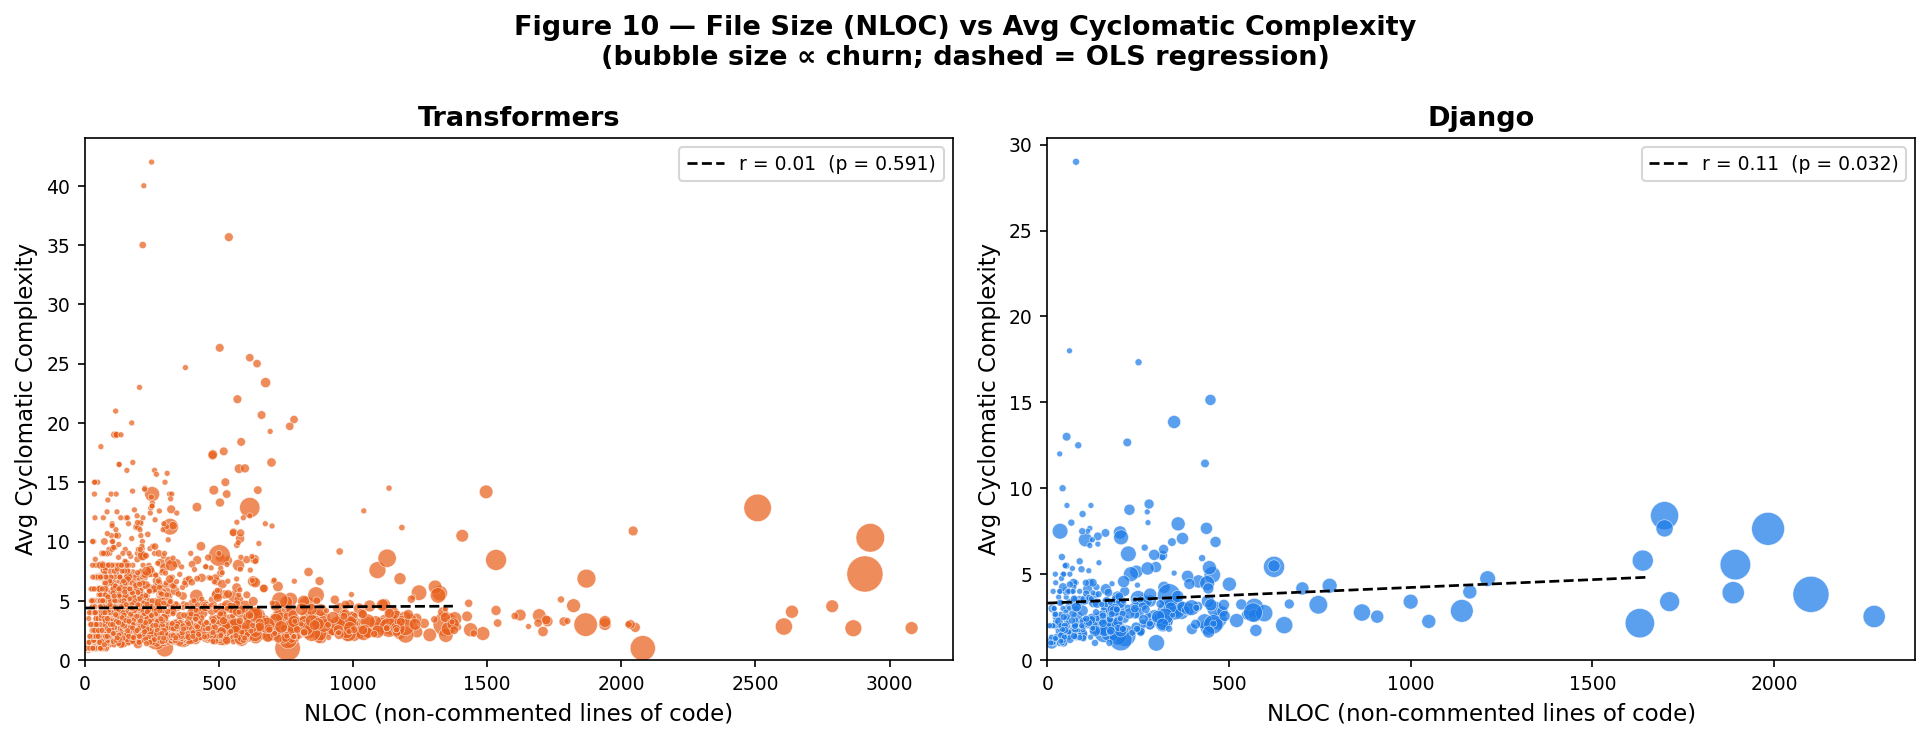
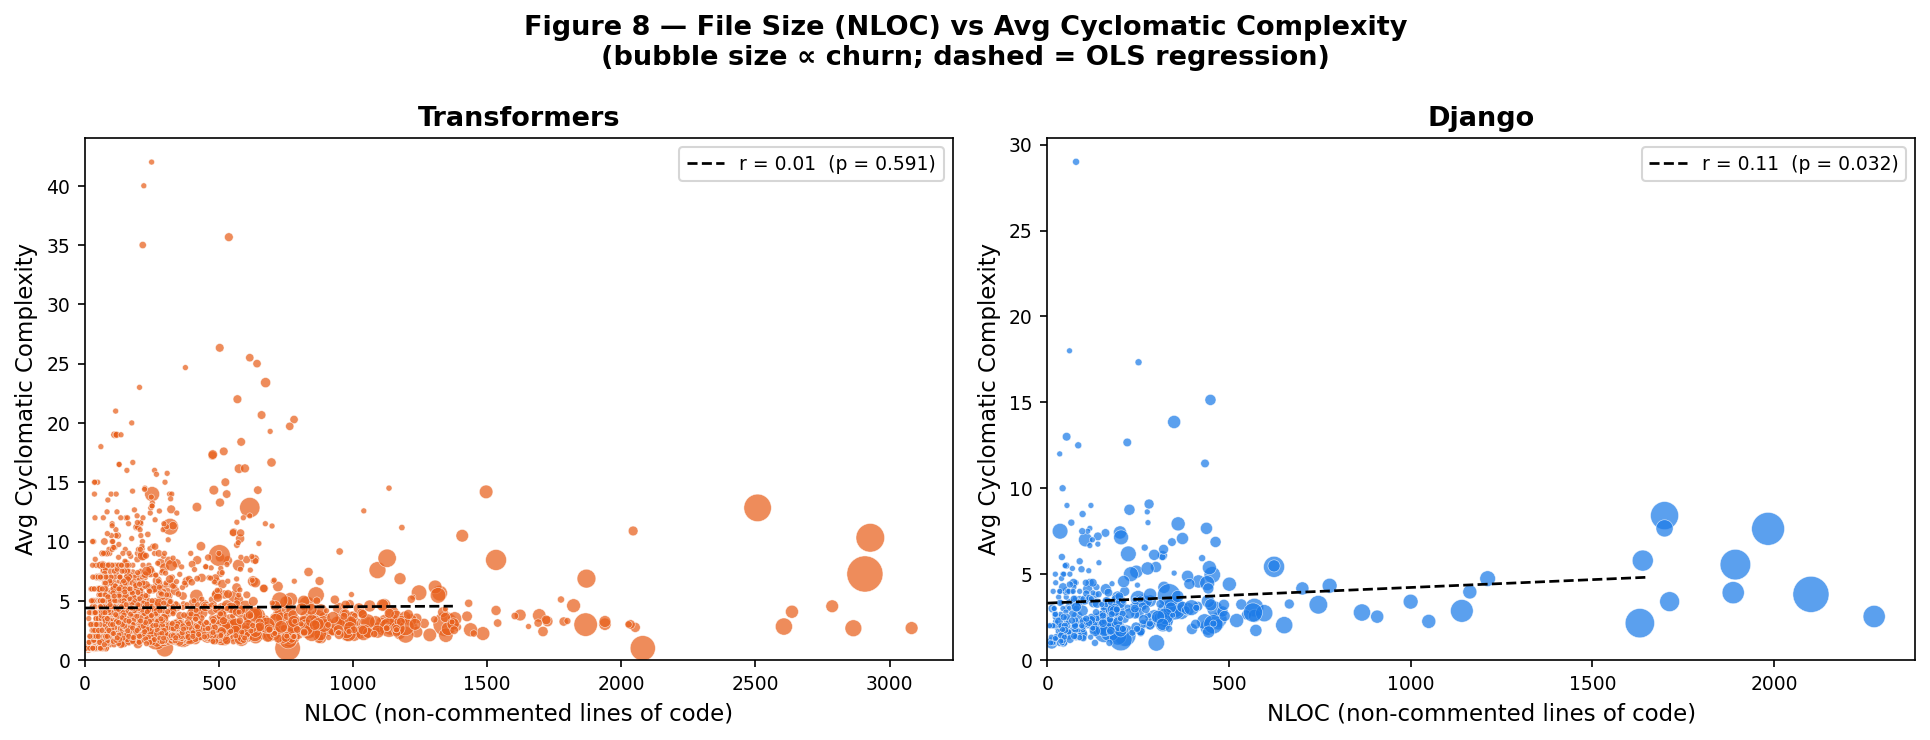
figure number mismatch fix

Changed region(s): [[0.2487, 0.0, 0.7461, 0.0622]]

diff --git a/scripts/generate_plots.py b/scripts/generate_plots.py
@@ -191,7 +191,7 @@ fig, axes = plt.subplots(1, 2, figsize=(15, 6))
 hotspot_scatter(axes[0], df_t, C_TRF, "huggingface/transformers")
 hotspot_scatter(axes[1], df_d, C_DJG, "django/django")
 fig.suptitle(
-    "Figure 1 — Hotspot Map: Cyclomatic Complexity vs Churn\n"
+    "Figure 2 — Hotspot Map: Cyclomatic Complexity vs Churn\n"
     "(bubble size ∝ bug-fix commit count)",
     fontsize=13,
     fontweight="bold",
@@ -234,7 +234,7 @@ fig, axes = plt.subplots(1, 2, figsize=(15, 7))
 top_hotspot_bar(axes[0], df_t, C_TRF, "Transformers — Top 15 Hotspot Files")
 top_hotspot_bar(axes[1], df_d, C_DJG, "Django — Top 15 Hotspot Files")
 fig.suptitle(
-    "Figure 2 — Ranked Hotspot Files by Composite Risk Score\n"
+    "Figure 3 — Ranked Hotspot Files by Composite Risk Score\n"
     "(Churn + Complexity + Bug-Fix Density, equally weighted)",
     fontsize=13,
     fontweight="bold",
@@ -273,7 +273,7 @@ top_bar(
 )
 top_bar(axes[1], df_d, "churn", C_DJG, "Commit churn count", "Django — Top 15 by Churn")
 fig.suptitle(
-    "Figure 3 — Files with Highest Commit Churn (change frequency)",
+    "Figure 4 — Files with Highest Commit Churn (change frequency)",
     fontsize=13,
     fontweight="bold",
 )
@@ -304,7 +304,7 @@ top_bar(
     "Django — Top 15 by Complexity",
 )
 fig.suptitle(
-    "Figure 4 — Files with Highest Avg Cyclomatic Complexity",
+    "Figure 5 — Files with Highest Avg Cyclomatic Complexity",
     fontsize=13,
     fontweight="bold",
 )
@@ -335,7 +335,7 @@ top_bar(
     "Django — Top 15 by Bug-Fix Commits",
 )
 fig.suptitle(
-    "Figure 5 — Files Most Frequently Touched by Bug-Fix Commits",
+    "Figure 6 — Files Most Frequently Touched by Bug-Fix Commits",
     fontsize=13,
     fontweight="bold",
 )
@@ -383,7 +383,7 @@ im = corr_heatmap(axes[0], df_t, "Transformers")
 corr_heatmap(axes[1], df_d, "Django")
 fig.colorbar(im, cax=cax, label="Pearson r")
 fig.suptitle(
-    "Figure 6 — Correlation Matrix: Code Metrics", fontsize=13, fontweight="bold"
+    "Figure 4 — Correlation Matrix: Code Metrics", fontsize=13, fontweight="bold"
 )
 fig.tight_layout(rect=(0.0, 0.0, 1.0, 0.95))
 save("fig06_correlation_heatmap")
@@ -430,7 +430,7 @@ fig, axes = plt.subplots(1, 2, figsize=(12, 5))
 bugfix_ratio_quartile(axes[0], df_t, C_TRF, "Transformers")
 bugfix_ratio_quartile(axes[1], df_d, C_DJG, "Django")
 fig.suptitle(
-    "Figure 7 — Bug-Fix Ratio vs Cyclomatic Complexity Quartile\n"
+    "Figure 5 — Bug-Fix Ratio vs Cyclomatic Complexity Quartile\n"
     "(validates: higher complexity → more bug-fix commits)",
     fontsize=13,
     fontweight="bold",
@@ -461,7 +461,7 @@ for ax, df, color, title in [
     ax.legend()
 
 fig.suptitle(
-    "Figure 8 — Churn Distribution Across Files  (log-scale)\n"
+    "Figure 6 — Churn Distribution Across Files  (log-scale)\n"
     "Power-law tail: a small fraction of files absorb most changes",
     fontsize=13,
     fontweight="bold",
@@ -496,7 +496,7 @@ for ax, df, color, title in [
     ax.legend(title="Risk thresholds")
 
 fig.suptitle(
-    "Figure 9 — Distribution of Avg Cyclomatic Complexity per File\n"
+    "Figure 7 — Distribution of Avg Cyclomatic Complexity per File\n"
     "McCabe thresholds: >10 Moderate risk, >20 High risk",
     fontsize=13,
     fontweight="bold",
@@ -551,7 +551,7 @@ fig, axes = plt.subplots(1, 2, figsize=(13, 5))
 nloc_complexity(axes[0], df_t, C_TRF, "Transformers")
 nloc_complexity(axes[1], df_d, C_DJG, "Django")
 fig.suptitle(
-    "Figure 10 — File Size (NLOC) vs Avg Cyclomatic Complexity\n"
+    "Figure 8 — File Size (NLOC) vs Avg Cyclomatic Complexity\n"
     "(bubble size ∝ churn; dashed = OLS regression)",
     fontsize=13,
     fontweight="bold",
@@ -606,7 +606,7 @@ fig, axes = plt.subplots(1, 2, figsize=(13, 5))
 lines_scatter(axes[0], df_t, C_TRF, "Transformers")
 lines_scatter(axes[1], df_d, C_DJG, "Django")
 fig.suptitle(
-    "Figure 11 — Lines Added vs Lines Deleted per File\n"
+    "Figure 9 — Lines Added vs Lines Deleted per File\n"
     "Files above the diagonal lose more code than they gain (refactoring / removal)",
     fontsize=13,
     fontweight="bold",
@@ -728,7 +728,7 @@ fig, axes = plt.subplots(1, 2, figsize=(16, 7))
 priority_matrix(axes[0], df_t, C_TRF, "Transformers — Remediation Priority Matrix")
 priority_matrix(axes[1], df_d, C_DJG, "Django — Remediation Priority Matrix")
 fig.suptitle(
-    "Figure 12 — Remediation Priority Matrix  (Top 20 Hotspot Files)\n"
+    "Figure 10 — Remediation Priority Matrix  (Top 20 Hotspot Files)\n"
     "Bubble size ∝ bug-fix commit count; stars = recommended action urgency",
     fontsize=13,
     fontweight="bold",
